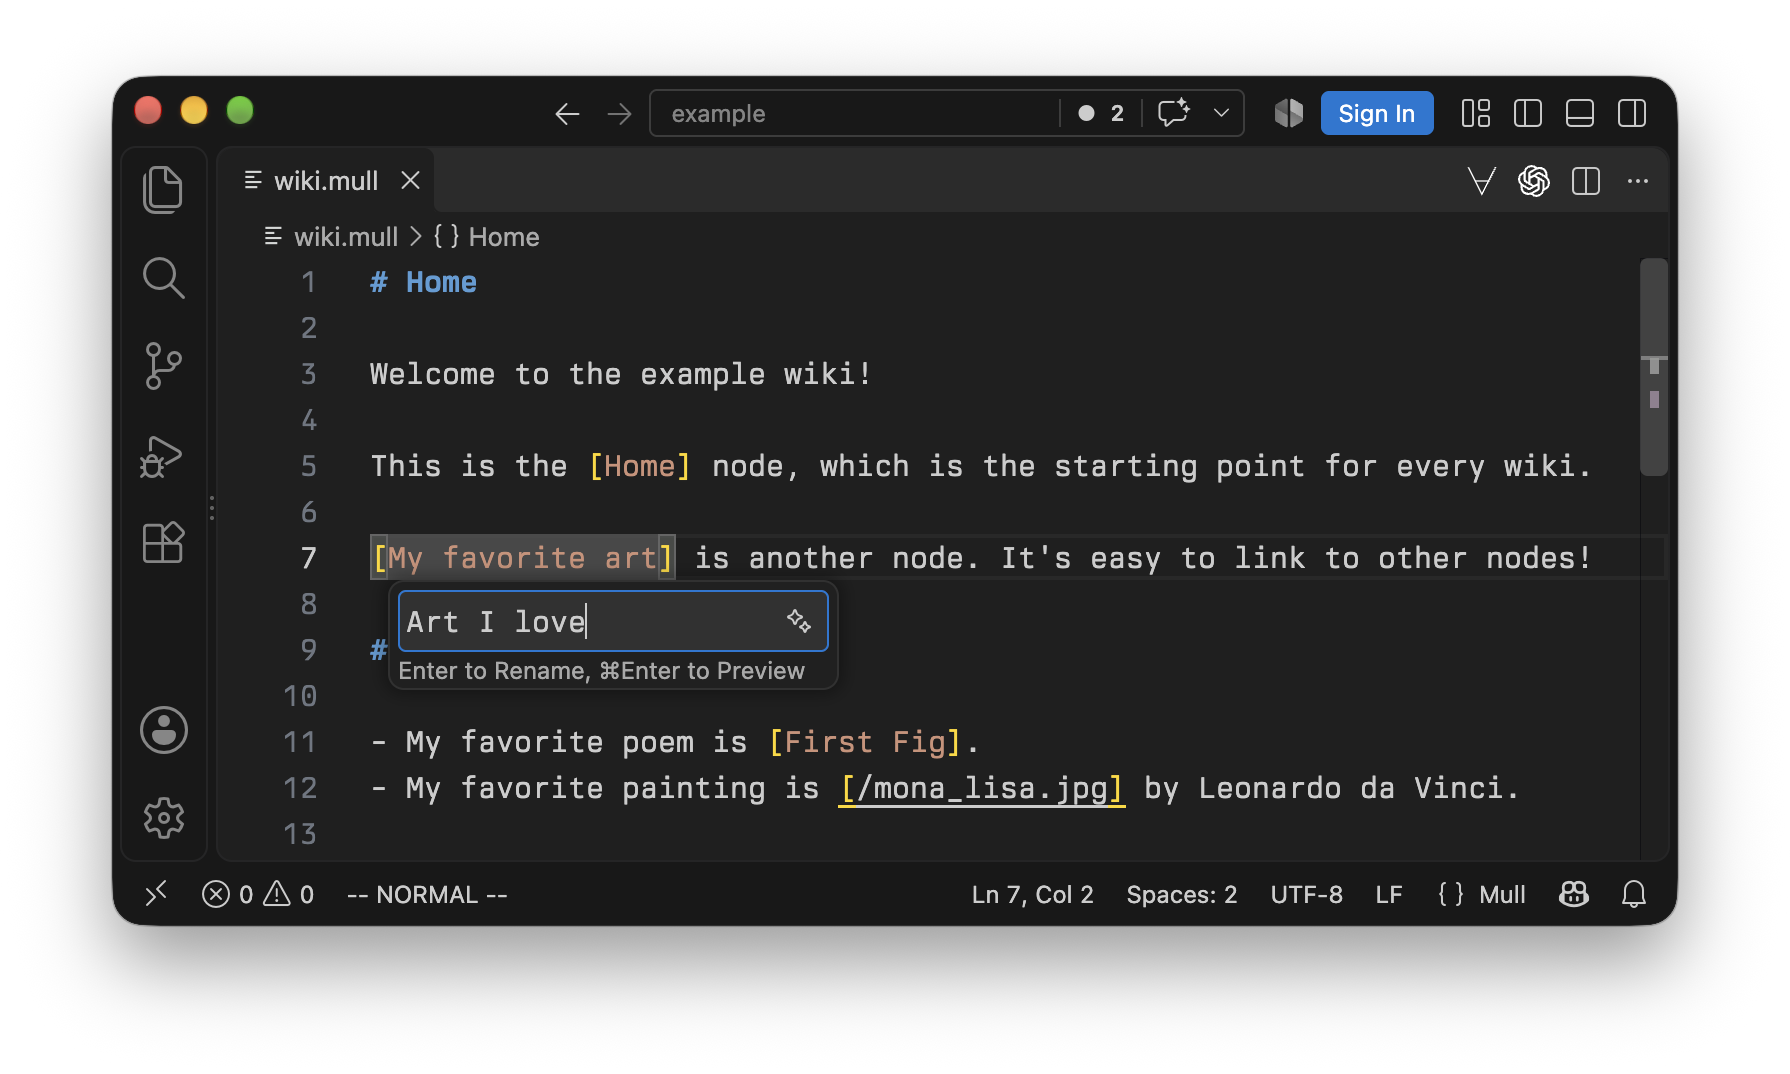
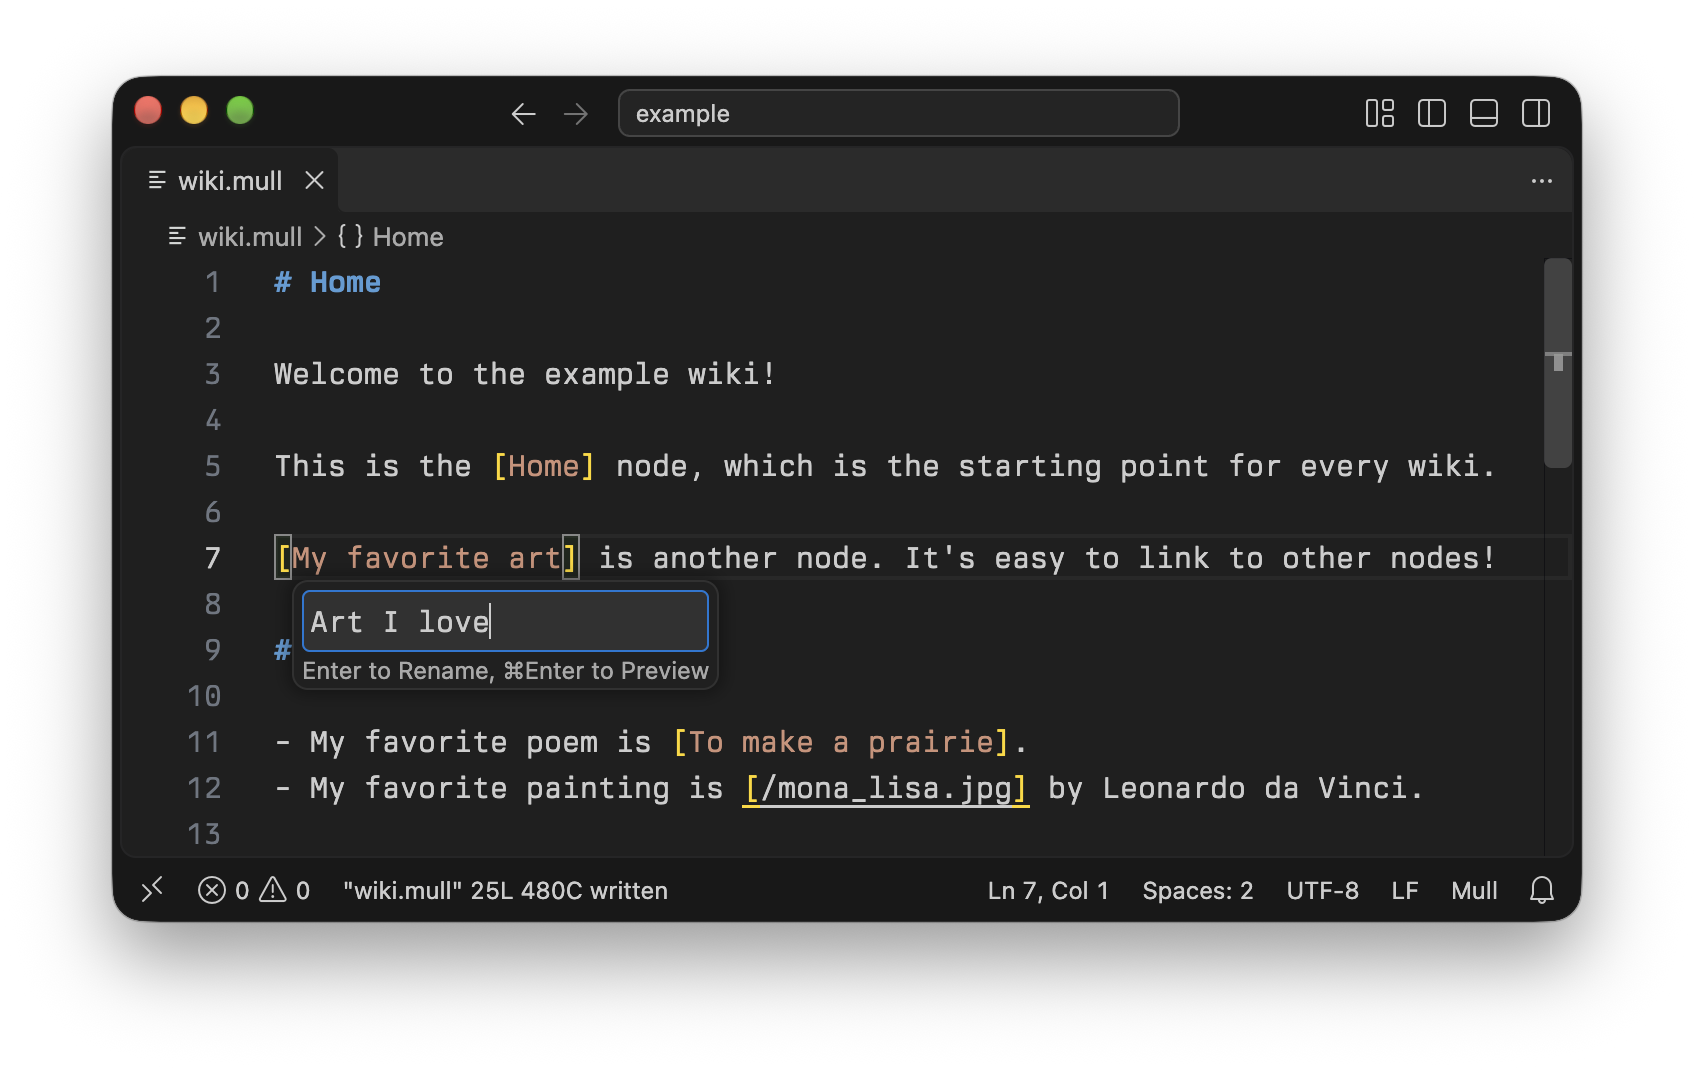
Use a different poem in the example wiki

diff --git a/README.md b/README.md
@@ -27,19 +27,20 @@ This is the [Home] node, which is the starting point for every wiki.
 
 # My favorite art
 
-- My favorite poem is [First Fig].
+- My favorite poem is [To make a prairie].
 - My favorite painting is [/mona_lisa.jpg] by Leonardo da Vinci.
 
-# First Fig
+# To make a prairie
 
 ```
-My candle burns at both ends;
-    It will not last the night;
-But ah, my foes, and oh, my friends—
-    It gives a lovely light!
+To make a prairie it takes a clover and one bee,
+One clover, and a bee,
+And revery.
+The revery alone will do,
+If bees are few.
 ```
 
-—Edna St. Vincent Millay
+—Emily Dickinson
 ````
 
 ## What does Mull check?
